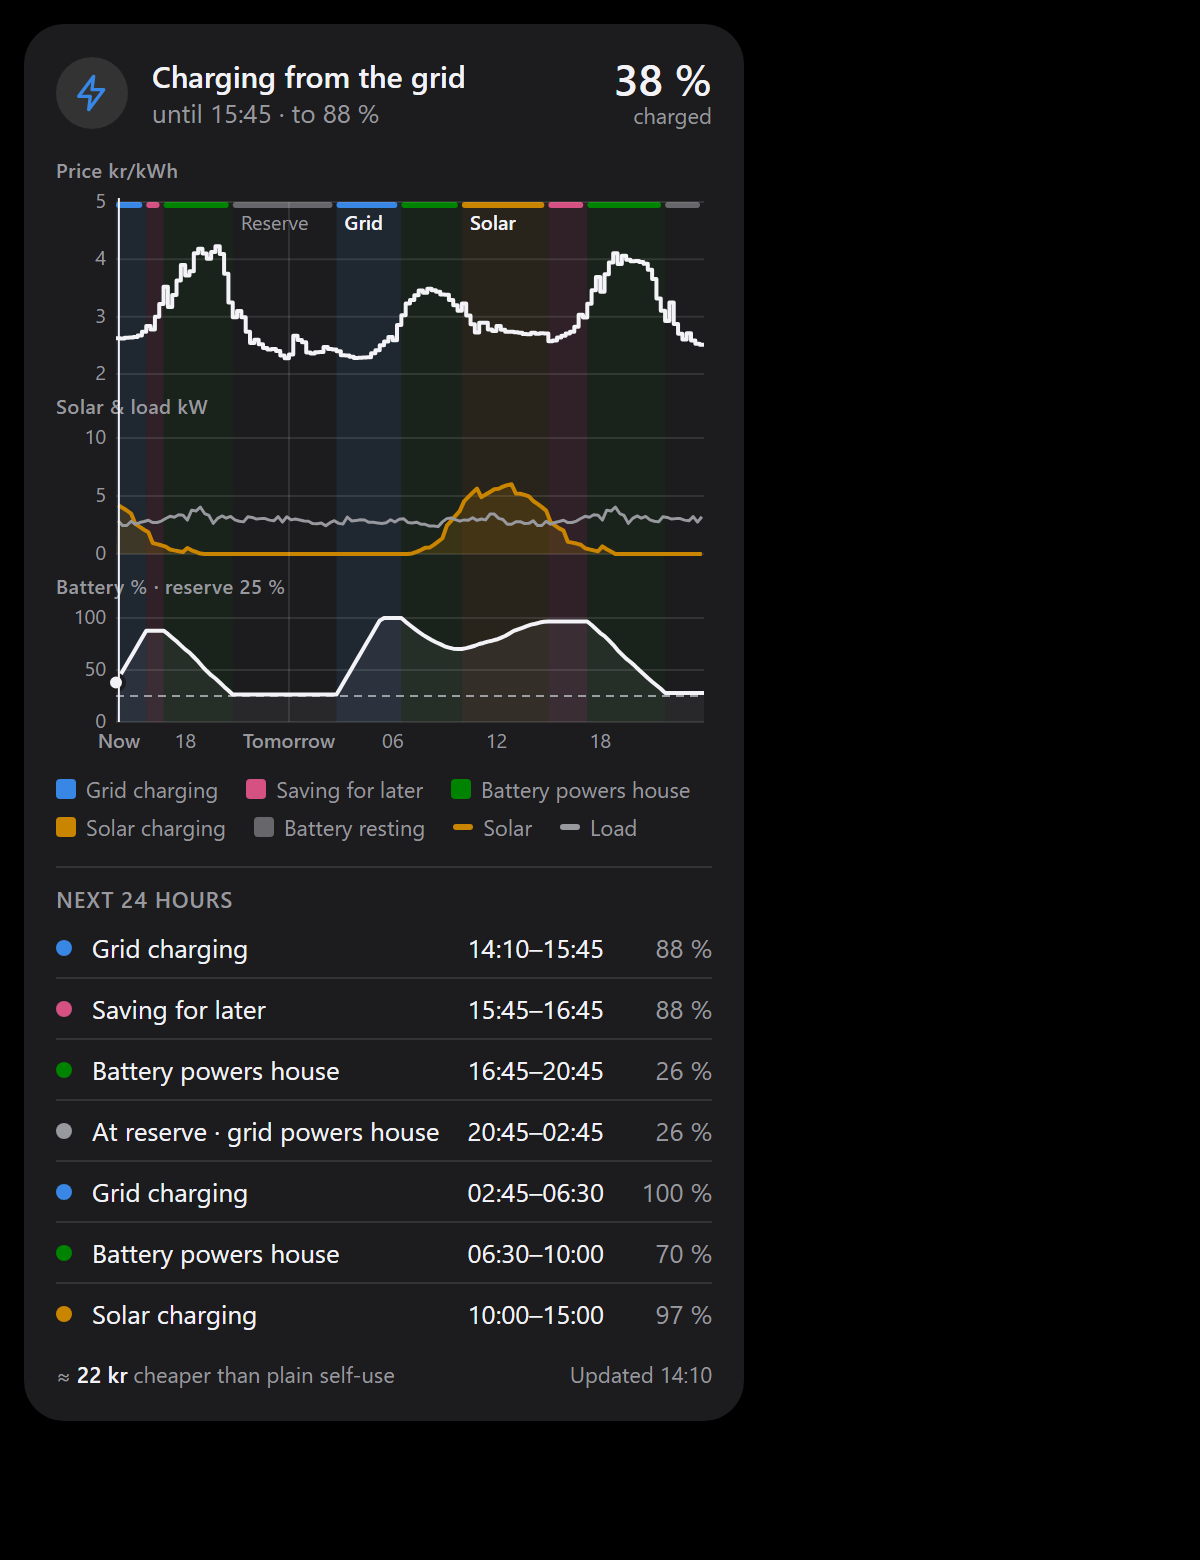
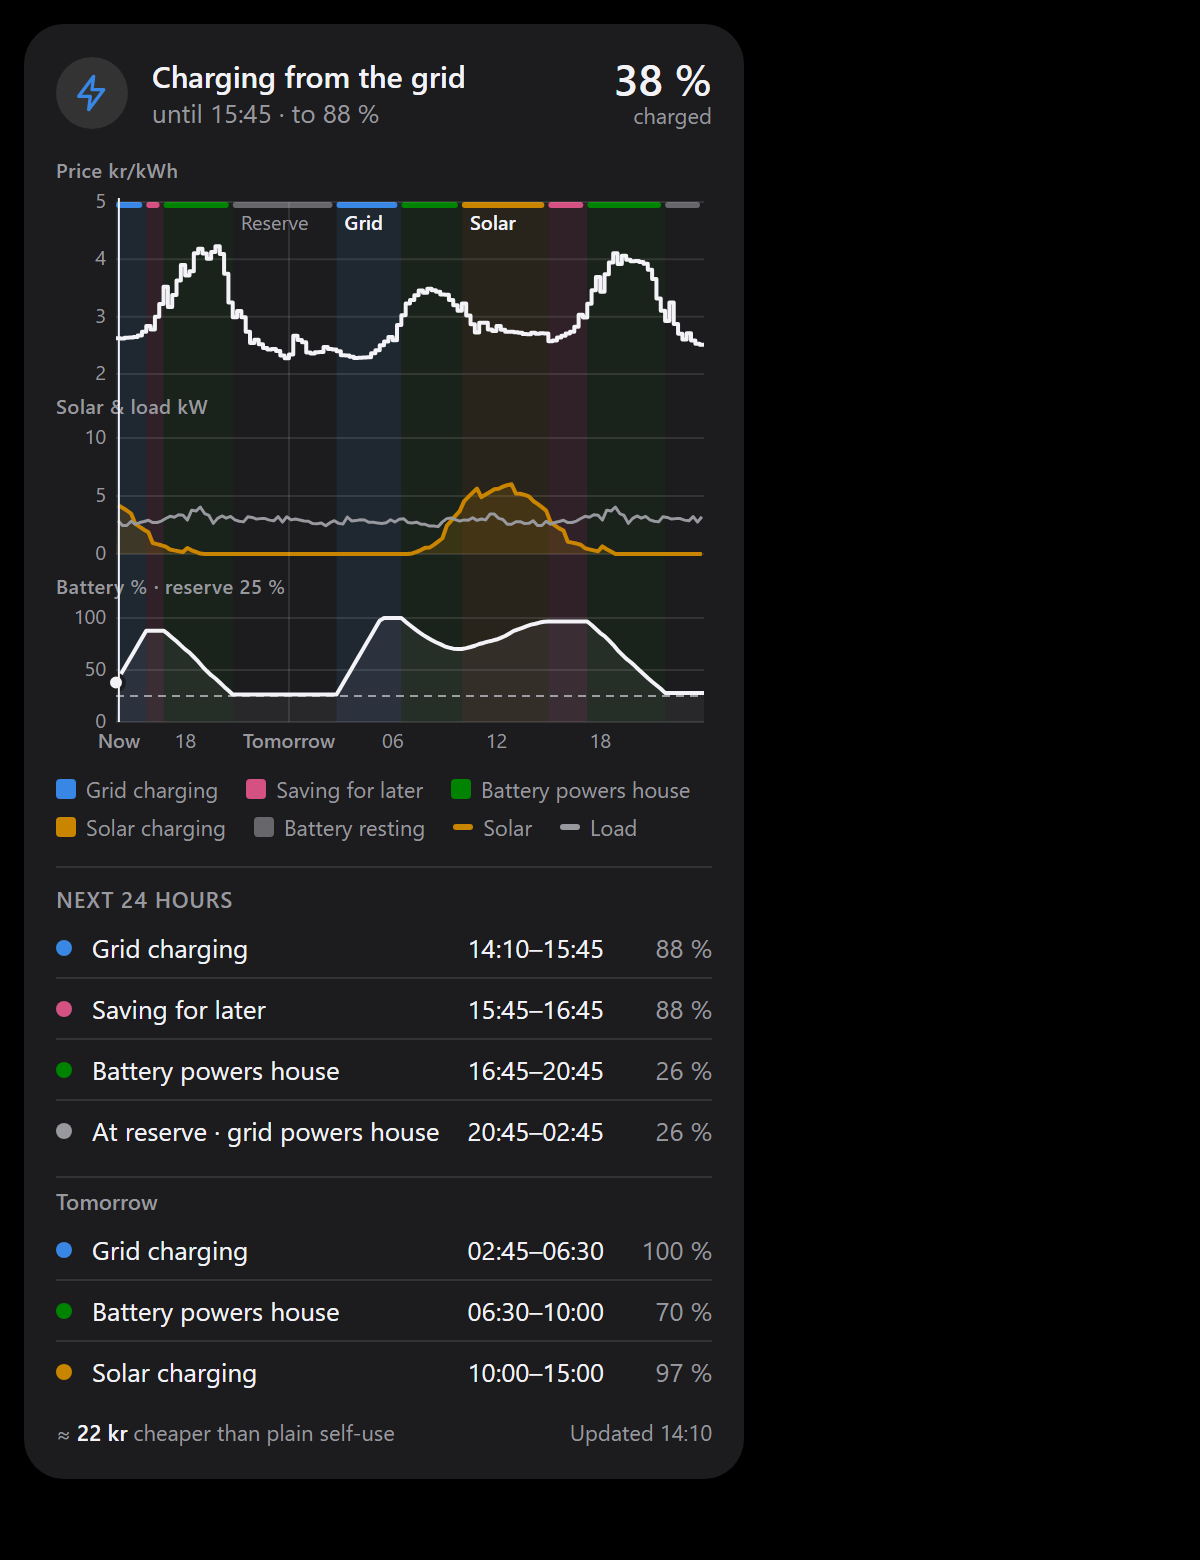
Say when a planned period is tomorrow: on the tile and as a heading in the widget list

diff --git a/homey-app/widgets/battery-plan/public/index.html b/homey-app/widgets/battery-plan/public/index.html
@@ -69,6 +69,7 @@
     .schedule h3 { margin: var(--homey-su-2, 8px) 0 2px; font-size: 11px; font-weight: 600; color: var(--c-muted); text-transform: uppercase; letter-spacing: 0.04em; }
     .row { display: flex; align-items: center; gap: 10px; padding: 6px 0; font-size: 13px; }
     .row + .row { border-top: 1px solid var(--c-grid); }
+    .day { margin-top: 8px; padding: 4px 0 2px; font-size: 11px; font-weight: 600; color: var(--c-muted); border-top: 1px solid var(--c-grid); }
     .row .dot { width: 8px; height: 8px; border-radius: 50%; flex: none; }
     .row .what { flex: 1; }
     .row .when { font-variant-numeric: tabular-nums; }
@@ -470,13 +471,24 @@
       section.appendChild(h);
       const horizon = nowMs() + 24 * 3600e3;
       const upcoming = periods(intervals).filter((p) => new Date(p.start).getTime() < horizon).slice(0, 8);
+      const today = fmtDay(new Date(nowMs()).toISOString());
+      let dayShown = today;
       for (const p of upcoming) {
+        const from = new Date(Math.max(new Date(p.start).getTime(), nowMs())).toISOString();
+        if (fmtDay(from) !== dayShown) {
+          // One heading where tomorrow starts, instead of repeating the day on every row.
+          dayShown = fmtDay(from);
+          const day = document.createElement('div');
+          day.className = 'day';
+          day.textContent = T.tomorrow;
+          section.appendChild(day);
+        }
         const row = document.createElement('div');
         row.className = 'row';
         row.innerHTML = '<span class="dot"></span><span class="what"></span><span class="when"></span><span class="target"></span>';
         row.querySelector('.dot').style.background = STATE_COLOR[p.state];
         row.querySelector('.what').textContent = T.names[p.state];
-        row.querySelector('.when').textContent = `${fmtTime(new Date(Math.max(new Date(p.start).getTime(), nowMs())).toISOString())}–${fmtTime(p.end)}`;
+        row.querySelector('.when').textContent = `${fmtTime(from)}–${fmtTime(p.end)}`;
         row.querySelector('.target').textContent = `${p.socEnd} %`;
         section.appendChild(row);
       }

diff --git a/homey-app/lib/planner/summary.ts b/homey-app/lib/planner/summary.ts
@@ -1,4 +1,4 @@
-import { localHHMM } from '../time.js';
+import { localDate, localHHMM } from '../time.js';
 import type { BatteryAction, PlannedInterval } from './planner.js';
 
 export type Language = 'en' | 'sv';
@@ -35,6 +35,7 @@ export const PERIOD_NAMES: Record<Language, Record<PeriodState, string>> = {
 
 const UNTIL: Record<Language, string> = { en: 'until', sv: 'till' };
 const NOW: Record<Language, string> = { en: 'now', sv: 'nu' };
+const TOMORROW: Record<Language, string> = { en: 'tomorrow', sv: 'i morgon' };
 
 /** States where the inverter runs plain self-use, so what happens follows the sun and the house. */
 const SELF_USE: ReadonlySet<PeriodState> = new Set(['battery', 'solar_charge', 'solar_house', 'at_reserve', 'full']);
@@ -177,6 +178,9 @@ export function planSummary(
   const next = rest
     .filter((p) => PLANNED.has(p.state))
     .slice(0, 2)
-    .map((p) => `${names[p.state]} ${localHHMM(p.start, timeZone)}–${localHHMM(p.end, timeZone)}`);
+    .map((p) => {
+      const day = localDate(p.start, timeZone) === localDate(now, timeZone) ? '' : `${TOMORROW[language]} `;
+      return `${names[p.state]} ${day}${localHHMM(p.start, timeZone)}–${localHHMM(p.end, timeZone)}`;
+    });
   return [head, ...next].join(' · ');
 }

diff --git a/homey-app/test/summary.test.ts b/homey-app/test/summary.test.ts
@@ -64,9 +64,9 @@ describe('planSummary', () => {
 
   it('says what happens now and the next planned actions', () => {
     assert.equal(planSummary(evening, new Date('2026-09-24T18:16:00+02:00'), RESERVE, MAX, TZ),
-      'Battery powers house until 21:00 · Grid charging 12:00–13:45');
+      'Battery powers house until 21:00 · Grid charging tomorrow 12:00–13:45');
     assert.equal(planSummary(evening, new Date('2026-09-24T18:16:00+02:00'), RESERVE, MAX, TZ, 'sv'),
-      'Batteriet driver huset till 21:00 · Nätladdning 12:00–13:45');
+      'Batteriet driver huset till 21:00 · Nätladdning i morgon 12:00–13:45');
   });
 
   it('hides saves too close to the reserve', () => {
